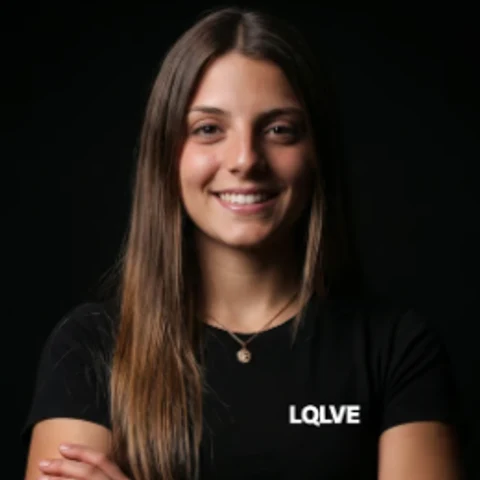
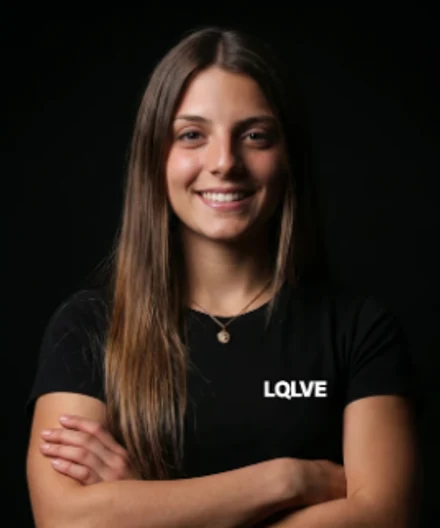
Las fotos del equipo, verticales y todas iguales
Pasan de cuadradas a 5:6, y la tarjeta usa esa misma proporcion para que
object-cover no las vuelva a recortar por su cuenta y descoloque a unas
respecto de otras.

El recorte deja de depender de la persona. Antes el lado salia del ancho de
cada silueta, asi que cada foto terminaba con un recuadro distinto y a las
mas angostas les sobraba negro a los costados. Ahora el recuadro es fijo
para las ocho -- 268x322 -- y lo unico que se busca en cada una es donde
empieza la cabeza, para apoyar el encuadre siempre a la misma distancia por
encima. Asi todas quedan con la cara a la misma altura.

A los dos mas anchos de hombros les recorta unos pixeles al costado. Es
preferible a la alternativa: para que entraran enteros habria que agrandar
el recuadro, y abajo ya no queda tira de donde sacar el alto.

Changed region(s): [[0.0295, 0.0, 0.975, 1.0], [0.5909, 0.7188, 0.7682, 0.7812], [0.5909, 0.1562, 0.6205, 0.1875]]

diff --git a/components/TeamCard.tsx b/components/TeamCard.tsx
@@ -20,7 +20,10 @@ export function TeamCard({ member, index = 0 }: { member: Member; index?: number
           El ancho ya no es fijo sino el de la celda, con un tope para que en
           pantallas muy anchas no se desproporcione. Asi las fotos crecen con
           la grilla en vez de quedarse chicas en el medio. */}
-      <div className="mx-auto aspect-square w-full max-w-[17rem] overflow-hidden bg-ink-700">
+      {/* 5:6, la misma proporcion con la que estan recortadas las fotos. Que
+          coincidan es lo que evita que object-cover vuelva a recortarlas por
+          su cuenta y descoloque a unos respecto de otros. */}
+      <div className="mx-auto aspect-[5/6] w-full max-w-[17rem] overflow-hidden bg-ink-700">
         <img
           src={member.photo}
           alt={member.name}
